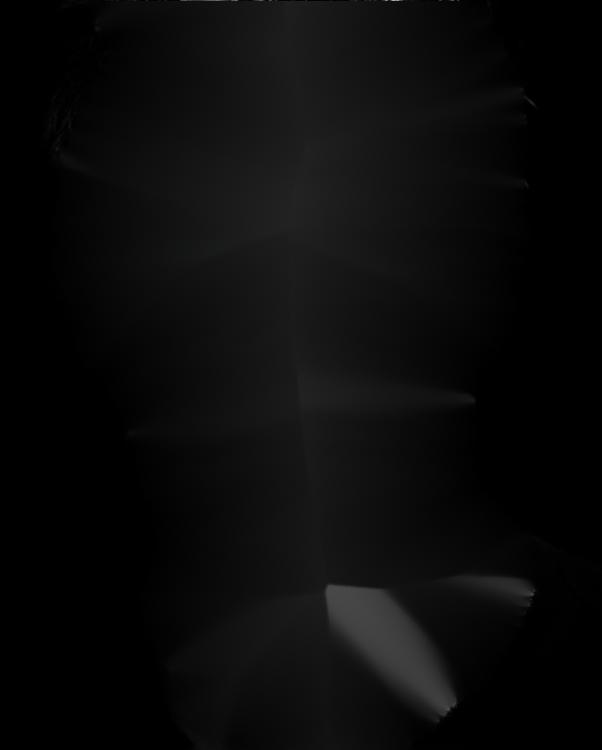
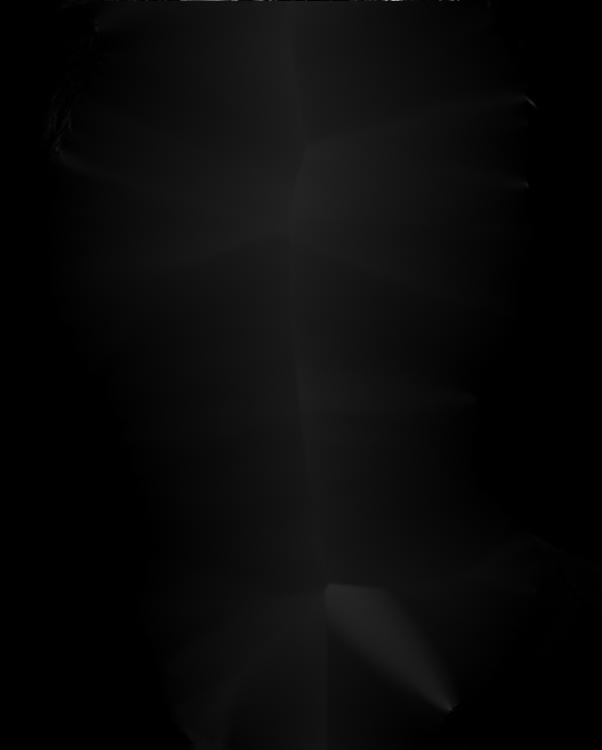
Second pass at the write up

Changed region(s): [[0.5382, 0.7667, 0.7774, 0.9507], [0.7774, 0.7667, 0.897, 0.7973]]

diff --git a/index.html b/index.html
@@ -51,22 +51,25 @@
   <h2 align="middle">Transfer Local Contrast</h2>
   <div class="padded">
     <p>We save our triangulations and points for future use. The next step, according to the paper, is to transfer the local contrast of the image. This local contrast is best seen in the lighting of the image. For example, in the George portrait, most of the light is towards the front of his face. The areas towards the ears and neck are darker.</p>
+    <h3 align="middle">Gaussian and Laplacian Stacks</h3>
     <p>To transfer the local contrast, we utilize Gaussian and Laplacian stacks. First, we decompose both images into Laplacian stacks,
       where each level <i>l</i> is defined by this equation found in the paper: </p>
       <center>
-          <img src="images/LaplacianEq.png" height="75">
+          <img src="images/LaplacianEq.png" height="80">
           <p>Here, <i>I</i> is our input image, which corresponds to the picture we want to transfer the style to. The input to the Gaussian is a sigma value, and the <i>x</i> is a convolution operator.</i></p>
       </center>
+      <h3 align="middle">Residual</h3>
     <p>We also extract the residual given a stack depth <i>n</i>, defined as </p>
       <center>
           <img src="images/Residual.png" height="50">
       </center>
+      <h3 align="middle">Energy Maps</h3>
       <p>From there, we compute the local energy as follows: </p>
       <center>
           <img src="images/LocalEnergy.png" height="30">
       </center>
       <p>We then warp every level of our portrait energy stack to the shape of our input image, through the triangulation defined in the above section. </p>
-
+      <h3 align="middle">Gain Maps</h3>
       <p>At this point, we have energy stacks for both of our images, one for the original image, and one for the portrait warped into the shape of the original.
         To transfer the energy over, we compute our output as follows, where <i></i> is ouput image of the follow operation. <i>S_tilde</i> is our warped example portrait, and epsilon <i>e</i> is a small
         number to avoid division by 0. In the paper, the recommended value for <i>e</i> was 0.0001:
@@ -95,7 +98,15 @@
       <p>Our stacks span 6 levels, the number of levels used in the paper. We will come back to experiment with the stack depth. Also in the paper, the gain maps are clamped to avoid outliers. We also clamp the gain at a maximum of 2.8 and a minimum of 0.9, the values used in the paper, to have robust gain maps.
         To get our final output image, we warp our example residual into the shape of our original photo and sum up our stack with this warped residual image.
       </p>
-
+      <h3 align="middle">Background</h3>
+      <p>In the paper, the background was directly replaced. In the case that the head size didn't correspond, in which spaces need to be filled with the background, we used the OpenCV method <i>inpaint</i>. What <i>inpaint</i> allowed us to do was to fill in an area equal to the size of the head in the stylized photo, then use that entire image as the background. We first make a mask of the stylized portrait head, feed the result of removing that area from the whole image into <i>inpaint</i>. The following are the results.</p>
+      <center>
+          <img src="images/george.jpg" height="325">
+          <img src="images/george_mask.jpg" height="325">
+          <img src="results/george_background.jpg" height="325">
+      </center>
+      <p>Weird artifacts are due to inaccuracies with the mask.</p>
+      <h3 align="middle">Results</h3>
       <p>Below, we have the results for transfering the style of Clooney's portrait to the original portrait of Jose. Here, we have original Jose, original George, and transferred Jose. We liked these results, as the lighting becomes balanced throughout Jose's face rather than bright on the right side only. In fact, the algorithm transfer a lot of the lighting, focused towards the front of the face. You can see that Jose's forehead is brighter than in the original image. However, the colors are not as bright as in Clooney's portrait,
         but this can be attributed to Jose's image being much darker to start with, and our robust gain clamping the gain.
       </p>
@@ -119,11 +130,12 @@
     <h3 align="middle">Convolutions</h3>
     <p>The paper had a specific definition for applying a Gaussian convolution to an image. The paper defined it as follows:</p>
     <center>
-        <img src="images/new_conv.png" height="100">
+        <img src="images/new_conv.png" height="90">
     </center>
+    <p>We tried this definition but unfortunately we could get this to work. The values outputted by this definition were in a very incompatible range, and our attempts to make it a compatible [0, 1] range failed. Therefore, we continued with regular convolution operations.</p>
     <h3 align="middle">Masks</h3>
     <p>In the paper, we found that using masks gave us different results than not using binary masks for faces. Below,
-      we have our results without a binary face mask and with a binary face mask, respectively. We noticed that not using a mask transfered more of the background/ambient color of the stylized portrat into the face. However, the image now appears too saturated compared to image that did use a mask.
+      we have our results without a binary face mask and with a binary face mask, respectively. We noticed that not using a mask transfered more of the background/ambient color of the stylized portrait into the face. However, the image now appears too saturated compared to image that did use a mask.
     </p>
     <center>
         <img src="results/output_nomask_test.jpg" height="350">
@@ -132,7 +144,7 @@
   </div>
   <h2 align="middle">Black and White Portraits</h2>
   <div class="padded">
-    <p>The paper demonstrated several example in which they successfully transfered the style from a black and white portrait to an input image, the final result being in black and white. We tested our algorithm with a portrait of Chris. We repeated the earlier process by finding the manual correspondence points and feeding both images through the algorithm above. Below are the results.</p>
+    <p>The paper demonstrated several examples in which they successfully transfered the style from a black and white portrait to an input image, the final result being in black and white. We tested our algorithm with a portrait of Chris Hemsworth. We repeated the earlier process by finding the manual correspondence points and feeding both images through the algorithm above. Below are the results.</p>
     <center>
         <img src="images/jose.jpg" height="325">
         <img src="images/chris.jpg" height="325">
@@ -140,7 +152,7 @@
         <p>The third image is the result of using NO mask.</p>
     </center>
     <p>From this result, we can see that our implementation was able to transfer the lighting contrasts. For example, in the portrait, the light is strong on the left side of the face, with a dark contrast on the right. In our output picture, the lighting on the left side of the face expanded to a region that matches the lighting found on Chris' left half. Specifically, light can be found on the forehead of the outputted Jose portrait, but not in the original Jose portrait.</p>
-    <p>However, our result doesn't have the dramatic contrast found in the Chris portrait. Likewise, in the output picture, it appears slightly darker around the chin and along the sides of the face. This, we believe, is because our implemenation managed to treat the facial hair of Chris as a dark spot in the lighting. This is why the upper lip and chin in the output picture appear darker than the light on the left eye. We found this to be an interesting result, as we didn't anticipate the effects of facial hair. These effect was not explained or adjusted for in the paper.</p>
+    <p>However, our result doesn't have the dramatic contrast found in the Chris portrait. Likewise, in the output picture, it appears slightly darker around the chin and along the sides of the face. This, we believe, is because our implemenation managed to treat the facial hair of Chris as a dark spot in the lighting. This is why the upper lip and chin in the output picture appear darker than the light on the left eye. We found this to be an interesting result, as we didn't anticipate the effects of facial hair. This effect was not explained or adjusted for in the paper.</p>
     <p>To address the lack of dramatic contrast, we experimented with the clamping values. The results will be displayed in a further section. Below are the results with a mask.</p>
     <center>
         <img src="images/jose.jpg" height="325">
@@ -149,9 +161,50 @@
         <p>The third image is the result of using a mask.</p>
     </center>
   </div>
+  <h2 align="middle">Clamping</h2>
+  <div class="padded">
+    <h3 align="middle">Robust Gain and Convolution</h3>
+    <p>In this section, we dicuss our observation with clamping gain values. According to the paper, "gain values below 1 mean a decrease of local contrast, and conversely, values greater than 1 mean an incrase." The paper defines a robust gain map that clamps high and low values: </p>
+    <center>
+        <img src="images/RobustGain.png" height="50">
+        <p>The paper defines <i>theta_h</i> = 2.8, <i>theta_l</i> = 0.9, <i>Beta</i> = 3</p>
+    </center>
+    <p>Values were clamped to avoid "phantom" effects. The clamping was done very fast by vectorizing our code.</p>
+    <center>
+        <img src="images/gain_clamp.png" height="70">
+    </center>
+    <p>Notice that there is a convolution with a Gaussian at the end of clamping. The results we have obtained so far didn't use this convolution operator. This is because, when looking up the Matlab implementation found the paper's website, the code's implementation actually didn't include this convolution. Thus, we didn't technically include this descision as a deviation. However, we ran some tests using this convolution operator.</p>
+    <p>Below is the result of including the convolution at the end of clamping.</p>
+    <center>
+        <img src="images/jose.jpg" height="325">
+        <img src="images/chris.jpg" height="325">
+        <img src="results/jose_chris_blurgain.jpg" height="325">
+        <p>The third image is the result of applying a Gaussian convolution at the end of clamping.</p>
+    </center>
+    <p>Comparing both pictures.</p>
+    <center>
+        <img src="results/jose_chris_nomask.jpg" height="325">
+        <img src="results/jose_chris_blurgain.jpg" height="325">
+        <p>The convolution at the end of clamping produced the right picture.</p>
+    </center>
+    <p>We found the convolution at the end of clamping to be less dramatic. For the rest of the results, we didn't include this final convolution operator.</p>
+    <h3 align="middle">Experimentation with Values</h3>
+    <p>Using the intuition mentioned earlier, we experimented adjusting these clamping values. For the Jose and George picture, we tried to increase the contrast of the light by increasing the min and max gain values. Below is the result of a min gain of 1.1 and a max gain of 3.0:</p>
+    <center>
+        <img src="results/output_nomask_test.jpg" height="325">
+        <img src="results/output_nomask_3.0_1.1.jpg" height="325">
+        <p>The image on the right has a <i>theta_h</i> = 3.0, <i>theta_l</i> = 1.1.</p>
+    </center>
+    <p>To us, this was surprising. We expected the contrast to be better, since by increasing the min gain to be above 1 made us think that the lighting would be more dramatic. So since increasing the min gain didn't help, we tried decreasing the min gain back to 0.9. Below is the comparison.</p>
+    <center>
+        <img src="results/output_nomask_test.jpg" height="325">
+        <img src="results/output_nomask_3.0_0.9.jpg" height="325">
+        <p>The image on the right has a <i>theta_h</i> = 3.0, <i>theta_l</i> = 0.9.</p>
+    </center>
+  </div>
   <h2 align="middle">Experimental Results</h2>
   <div class="padded">
-    <p>The main goal of implementing this paper was to experiement transfering portrait styles from non-studio lighting scenarios. That is, in the paper and so far for this project, we have looked at transfering styles from a very stylized portrait, likely taken in an indoor studio with fancy lighting equipment. We came up with a new question: can we transfer styles from an indoor setting to an outdoor portrait and vice versa? Essentially, we tested our style transfer with non-stylized portraits and focused on natural environments.</p>
+    <p>The main goal of implementing this paper was to experiement transfering portrait styles from non-studio lighting scenarios. That is, in the paper and so far for this project, we have looked at transfering styles from a very stylized portrait, likely taken in an indoor studio with fancy lighting equipment. We came up with a new question: can we transfer styles from an indoor setting to an outdoor portrait and vice versa? Essentially, we tested our style transfer with non-stylized portraits and focused on natural environments. We aim to show the results, then discuss what transfered well and what didn't transfer well.</p>
     <p>Below are two portraits in natural environments, one indoors and one outdoors respectively.</p>
     <div align="center">
         <table style="width=100%">
@@ -167,6 +220,7 @@
               <tr>
         </table>
     </div>
+    <h3 align="middle">Indoor to Outdoor</h3>
     <p>We tested transfering the style of the outdoor portrait to the indoor portrait, replacing the background. Below are the results.</p>
     <center>
         <img src="images/jose_indoor_small.jpg" height="350">
@@ -181,5 +235,49 @@
         <p>The third image is the result of using NO mask.</p>
     </center>
     <p>As before, our algorithm managed to transfer the very diffused lighting found outdoors to the face in the indoor picture. However, now our result look too washed out. We believe this is a result of our algorithm's clamping values and deviation from not blurring the mask in the laplacian stacks.</p>
+    <h3 align="middle">Outdoor to Indoor</h3>
+    <p>Here are results from going from outdoor to indoor.</p>
+    <center>
+        <img src="images/jose_outdoor_small.jpg" height="350">
+        <img src="images/jose_indoor_small.jpg" height="350">
+        <img src="results/outdoor_to_indoor.jpg" height="350">
+        <p>The third image is the result of using a mask.</p>
+    </center>
+    <center>
+        <img src="images/jose_outdoor_small.jpg" height="350">
+        <img src="images/jose_indoor_small.jpg" height="350">
+        <img src="results/outdoor_to_indoor_no_mask.jpg" height="350">
+        <p>The third image is the result of using NO mask.</p>
+    </center>
+    <p>Overall, much of the very diffused outdoor lighting on the original outdoor image was replaced with the lighting found in the indoor picture. If you look closely, the right side of the face in the output picture matches the lighting of the original indoor picture. The result obtained from not using a mask had better color matching than the results obtained using a mask.</p>
+    <h3 align="middle">Day to Night</h3>
+    <p>We also tried going from outdoor lighting to night lighting.</p>
+    <center>
+        <img src="images/jose_outdoor_small.jpg" height="350">
+        <img src="images/jose_lowlight_small.jpg" height="350">
+        <img src="results/day_to_night.jpg" height="350">
+        <p>The third image is the result of using a mask.</p>
+    </center>
+    <center>
+        <img src="images/jose_outdoor_small.jpg" height="350">
+        <img src="images/jose_lowlight_small.jpg" height="350">
+        <img src="results/day_to_night_no_mask.jpg" height="350">
+        <p>The third image is the result of using NO mask.</p>
+    </center>
+    <p> In general, the outdoor to night lighting experiment has failed. One positive aspect is, in the result with no mask, the yellow highlight on the right side of the faces was transferred. But, our algorithm does not transfer color as well as local contrast.</p>
+    <h3 align="middle">Night to Day</h3>
+    <p>Another combination is from night to daytime lighting.</p>
+    <center>
+        <img src="images/jose_lowlight_small.jpg" height="350">
+        <img src="images/jose_outdoor_small.jpg" height="350">
+        <img src="results/night_to_day.jpg" height="350">
+        <p>The third image is the result of using a mask.</p>
+    </center>
+    <center>
+        <img src="images/jose_lowlight_small.jpg" height="350">
+        <img src="images/jose_outdoor_small.jpg" height="350">
+        <img src="results/night_to_day_no_mask.jpg" height="350">
+        <p>The third image is the result of using NO mask.</p>
+    </center>
   </div>
 </body>

diff --git a/inputs.py b/inputs.py
@@ -6,23 +6,23 @@ import skimage.io as skio
 from scipy.spatial import Delaunay
 
 imname = sys.argv[1]
-im2name = sys.argv[2]
-num_points = int(sys.argv[3])
-image1 = skio.imread('./' + imname + '.jpg')
+#im2name = sys.argv[2]
+num_points = int(sys.argv[2])
+image1 = skio.imread('./images/' + imname + '.jpg')
 image1_full = sk.img_as_float(image1)
 
-image2 = skio.imread('./' + im2name + '.jpg')
-image2_full = sk.img_as_float(image2)
+#image2 = skio.imread('./images/' + im2name + '.jpg')
+#image2_full = sk.img_as_float(image2)
 
 plt.imshow(image1_full)
 print("Please click")
 A_points = plt.ginput(n=num_points, timeout=500, show_clicks=True)
 A_corres = np.array(A_points)
-np.savetxt('A_points_' + imname + '.txt', A_corres, fmt='%f')
+np.savetxt('./points/' + imname + '_points.txt', A_corres, fmt='%f')
 plt.close()
-print("clicked", A_corres)
-plt.imshow(image2_full)
-B_corres = np.array(plt.ginput(n=num_points, timeout=500, show_clicks=True))
-np.savetxt('B_points_' + im2name + '.txt', B_corres, fmt='%f')
-plt.close()
-print('clicked', B_corres)
+#print("clicked", A_corres)
+#plt.imshow(image2_full)
+#B_corres = np.array(plt.ginput(n=num_points, timeout=500, show_clicks=True))
+#np.savetxt('B_points_' + im2name + '.txt', B_corres, fmt='%f')
+#plt.close()
+#print('clicked', B_corres)

diff --git a/main.py b/main.py
@@ -105,6 +105,7 @@ def robustTransfer(inputLapStack, warpedStack, inputEStack):
         gain = (warpedStack[i] / (inputEStack[i] + e_0)) ** 0.5
         gain[gain > gain_max] = gain_max
         gain[gain < gain_min] = gain_min
+        gain = lowPass(gain, 5*(2**i), 3*(2**i))
         newLayer = inputLapStack[i] * gain
         newGainStack.append(newLayer)
     return newGainStack
@@ -164,8 +165,8 @@ input_mask_gray = readGrayScale(folder + imname + _mask + file_type)
 example_mask_gray = readGrayScale(folder + im2name + _mask + file_type)
 input_mask = cv2.imread(folder + imname + _mask + file_type, 0)
 example_mask = cv2.imread(folder + im2name + _mask + file_type, 0)
-inputShape = np.loadtxt('./points/jose_indoor_points.txt')
-exampleShape = np.loadtxt('./points/jose_outdoor_points.txt')
+inputShape = np.loadtxt('./points/A_points_jose.txt')
+exampleShape = np.loadtxt('./points/A_points_chris.txt')
 
 
 configureBackground(example, example_mask, im2name)
